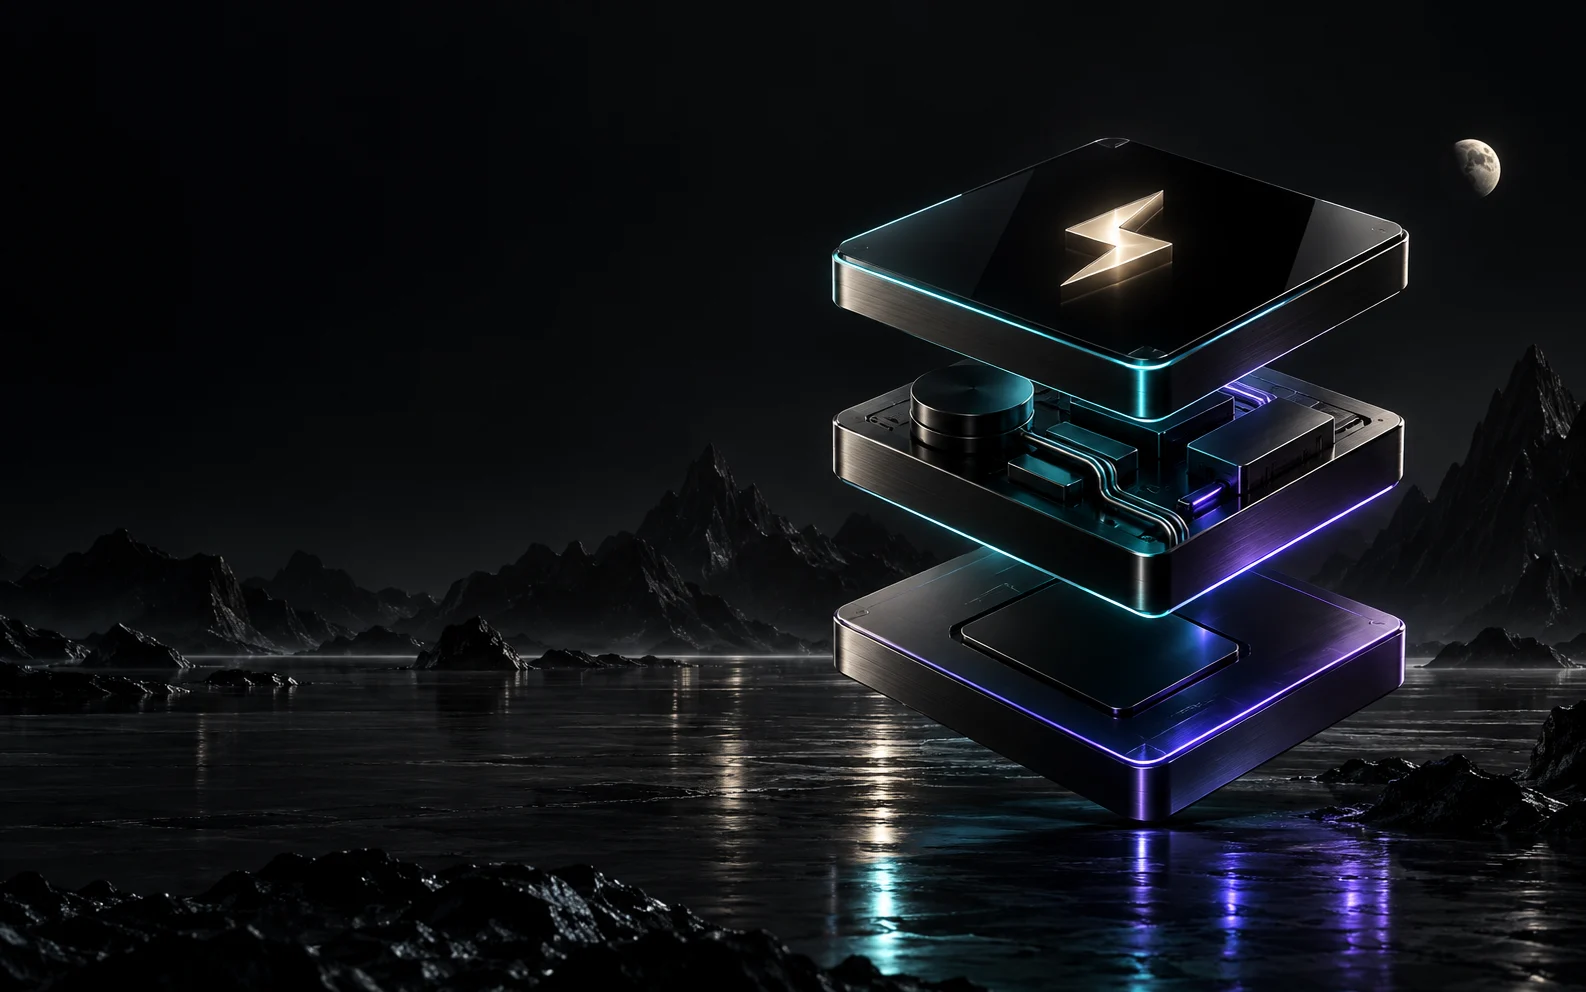
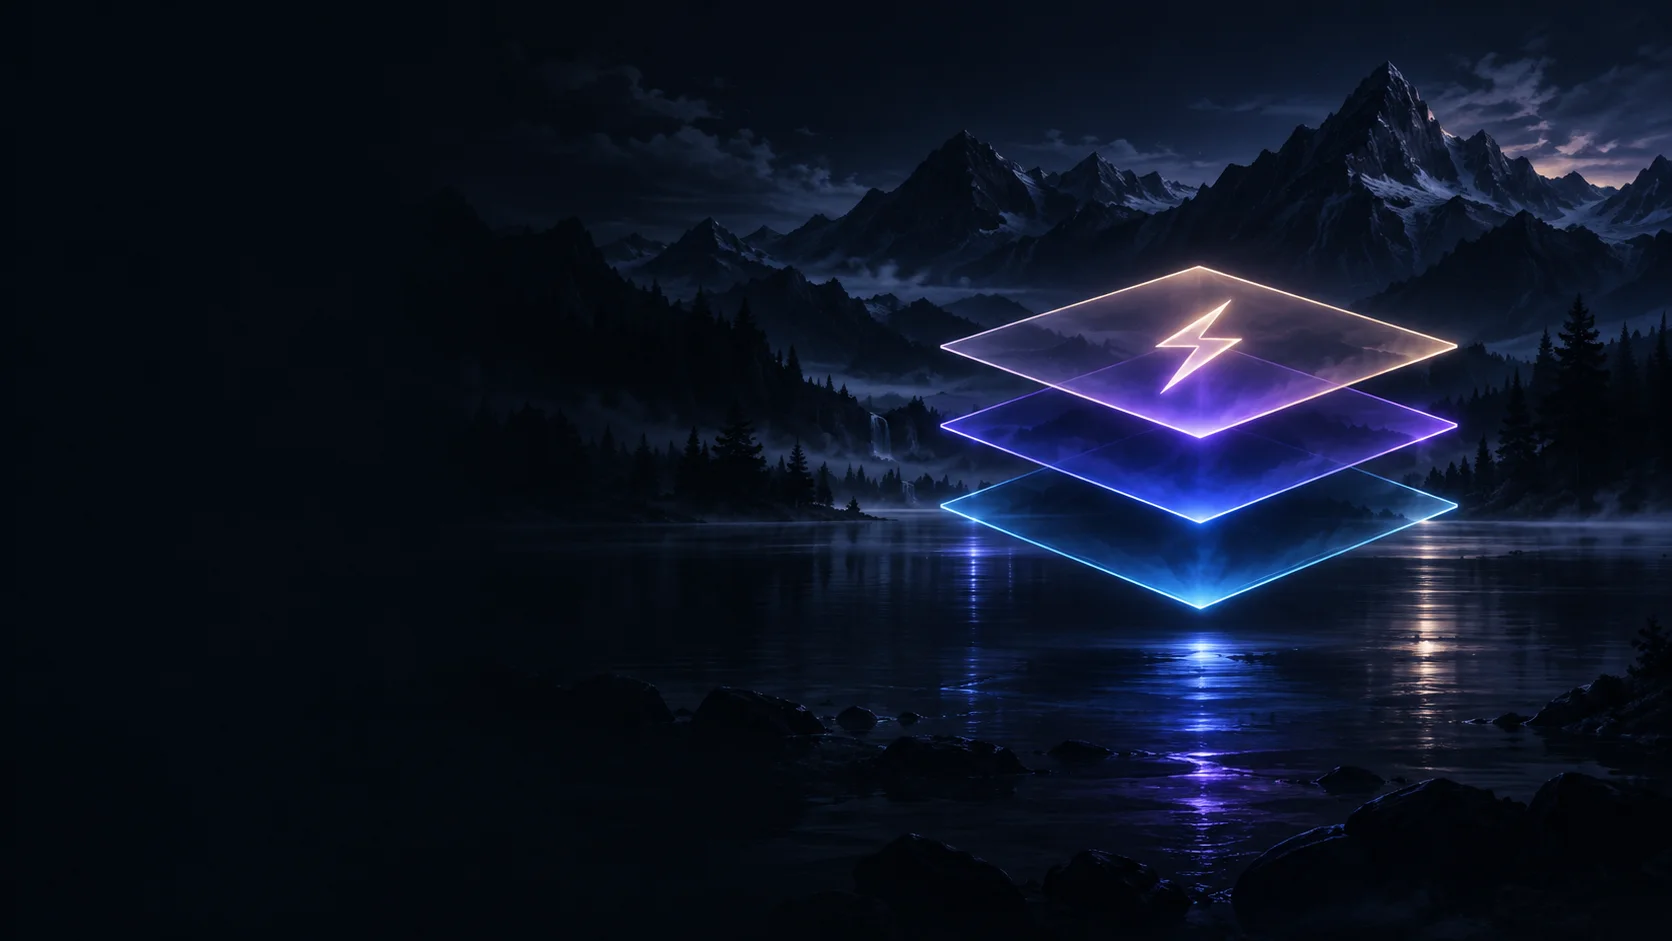
Publish illustrated About card system

diff --git a/about.html b/about.html
@@ -128,12 +128,12 @@ function main() -> int {
   <section class="about-section use-section">
     <div class="section-heading"><div class="eyebrow">What can you build?</div><h2>One language. Real projects.</h2><p>Use Strut for focused native tools or compose the built-in surfaces into larger applications.</p></div>
     <div class="use-grid">
-      <article class="use-card"><h3>CLI & developer tools</h3><p>Argument-aware entry points, filesystem APIs, child processes, streams and static or dynamic linking.</p></article>
-      <article class="use-card"><h3>Backends & HTTPS APIs</h3><p>HTTP servers and clients, TLS, checked errors, JSON and SQLite in a native service.</p></article>
-      <article class="use-card"><h3>Data applications</h3><p>Parse, transform, persist and serve structured data without assembling a framework first.</p></article>
-      <article class="use-card"><h3>Concurrent native programs</h3><p>Native threads, atomics, mutexes, channels and async work with explicit crossing rules.</p></article>
-      <article class="use-card"><h3>Package-backed projects</h3><p>Multi-module builds with immutable commits, SHA-256 verification, lockfiles and an offline cache.</p></article>
-      <article class="use-card"><h3>Agent-driven development</h3><p>Stable diagnostics, JSON inspection commands and authoritative metadata make feedback easy to consume.</p></article>
+      <article class="use-card"><img src="assets/about-card-cli.webp" alt="A stylized terminal and developer tool"><h3>CLI & developer tools</h3><p>Argument-aware entry points, filesystem APIs, child processes, streams and static or dynamic linking.</p></article>
+      <article class="use-card"><img src="assets/about-card-backend.webp" alt="A stylized native service and connected endpoint"><h3>Backends & HTTPS APIs</h3><p>HTTP servers and clients, TLS, checked errors, JSON and SQLite in a native service.</p></article>
+      <article class="use-card"><img src="assets/about-card-data.webp" alt="Stylized data, database and file forms"><h3>Data applications</h3><p>Parse, transform, persist and serve structured data without assembling a framework first.</p></article>
+      <article class="use-card"><img src="assets/about-card-concurrency.webp" alt="Three connected concurrent nodes around an atomic core"><h3>Concurrent native programs</h3><p>Native threads, atomics, mutexes, channels and async work with explicit crossing rules.</p></article>
+      <article class="use-card"><img src="assets/about-card-packages.webp" alt="Four interlocking package modules"><h3>Package-backed projects</h3><p>Multi-module builds with immutable commits, SHA-256 verification, lockfiles and an offline cache.</p></article>
+      <article class="use-card"><img src="assets/about-card-agents.webp" alt="A stylized editor connected to an intelligent crystal"><h3>Agent-driven development</h3><p>Stable diagnostics, JSON inspection commands and authoritative metadata make feedback easy to consume.</p></article>
     </div>
   </section>
 

diff --git a/assets/style.css b/assets/style.css
@@ -268,3 +268,23 @@ code { font-family: "JetBrains Mono", "SFMono-Regular", Consolas, monospace; }
   .about-page .hero-art { width:100%; object-position:70% center; }
   .about-page .section-art { border-radius:10px; }
 }
+
+/* About editorial illustration cards */
+.about-page .use-grid { grid-template-columns:repeat(2,minmax(0,1fr)); gap:16px; }
+.about-page .use-card { min-height:285px; padding:27px; isolation:isolate; background:#10110f; }
+.about-page .use-card > img { position:absolute; inset:0; z-index:0; width:100%; height:100%; object-fit:cover; }
+.about-page .use-card h3,
+.about-page .use-card p { position:relative; z-index:1; max-width:52%; }
+.about-page .use-card h3 { margin:0 0 9px; }
+.about-page .use-card p { color:#aaada5; }
+@media(max-width:760px){
+  .about-page .use-grid { grid-template-columns:1fr; }
+  .about-page .use-card { min-height:300px; }
+  .about-page .use-card h3,
+  .about-page .use-card p { max-width:58%; }
+}
+@media(max-width:430px){
+  .about-page .use-card { min-height:310px; padding:22px; }
+  .about-page .use-card h3,
+  .about-page .use-card p { max-width:64%; }
+}
